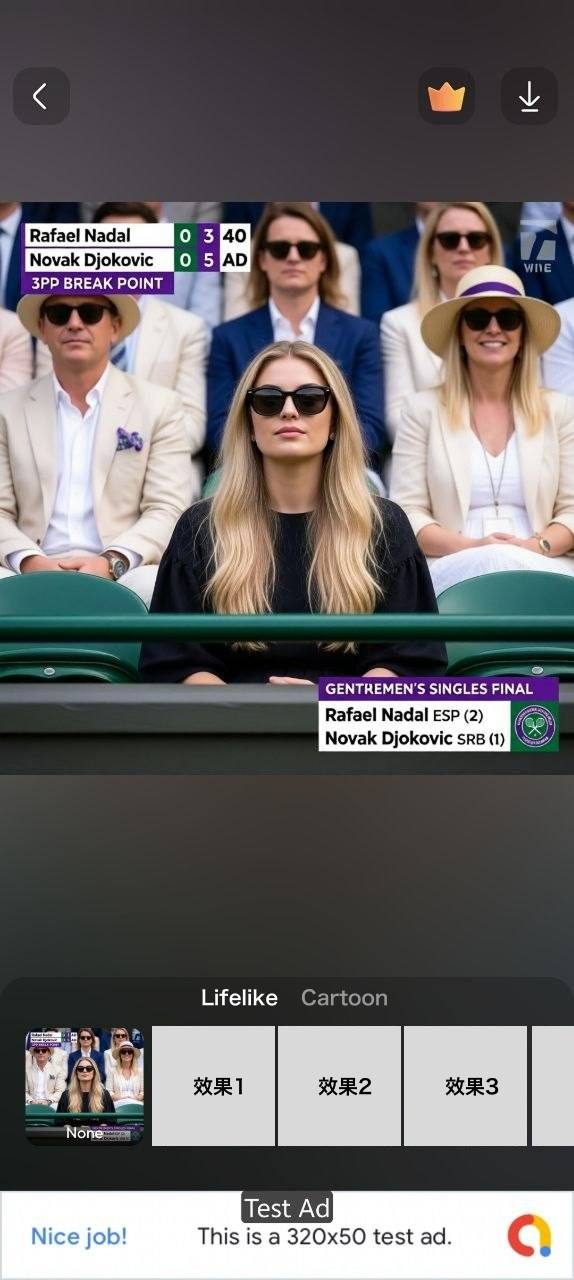
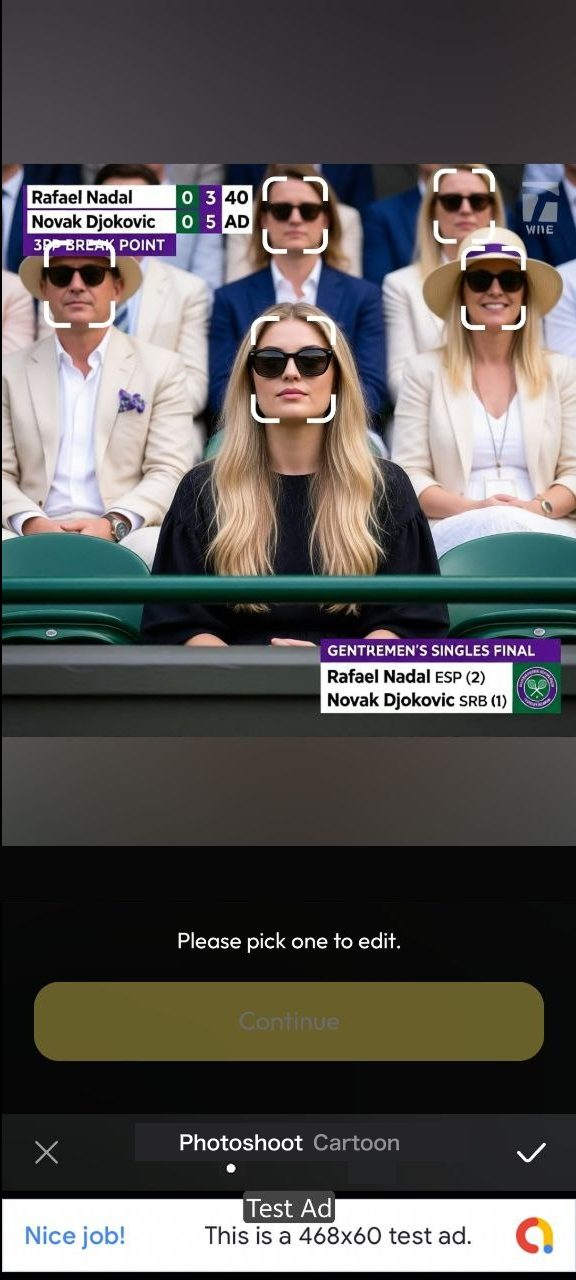
v1.330.0: 弹出条件改为开屏广告后；Lifelike→Photoshoot 全量替换；交互说明加 tab 定位+尾部衔接 Cartoon；埋点移到关注指标前；替换 §3.2 两张真人分类图

diff --git a/dofoto v1.330.0.html b/dofoto v1.330.0.html
@@ -359,7 +359,7 @@
       <span class="cover-meta-pill pill-status">撰写中</span>
     </div>
     <div class="cover-summary">
-      本版本包含 4 项更新：新增首页上新弹窗机制以推广新效果素材；AI Art 模块新增 Lifelike 分类并支持多人照片人脸选择；解决 Google Play 后台合规问题（Billing Library 升级至 8.0.0+ / target API 升级至 36）；修复选图页分类 tab 闪动问题。
+      本版本包含 4 项更新：新增首页上新弹窗机制以推广新效果素材；AI Art 模块新增 Photoshoot 分类并支持多人照片人脸选择；解决 Google Play 后台合规问题（Billing Library 升级至 8.0.0+ / target API 升级至 36）；修复选图页分类 tab 闪动问题。
     </div>
     <div class="change-log">
       <h3>变更记录</h3>
@@ -384,7 +384,7 @@
           <td>3 个效果主副标题</td>
         </tr>
         <tr>
-          <td class="name">AI 真人效果（Lifelike）</td>
+          <td class="name">AI 真人效果（Photoshoot）</td>
           <td>14 个缩略图和动画</td>
           <td>14 个效果名称多语言</td>
         </tr>
@@ -440,7 +440,7 @@
         <div class="card-body">
           <div class="card-text" style="font-size:32px;line-height:1.85;">
 <span style="font-weight:500;color:#0D47A1;">弹出条件</span>
-· 更新弹窗素材内容后，用户首次进入首页时弹出
+· 看完开屏广告后，用户首次进入首页时弹出
 · 新安装用户首次进入首页不弹出
 · 每日最多展示 1 次；同一天内未点击弹窗直接退出 App 后再进首页，仍展示弹窗（视为同一次）
 · 素材资源需全部下载完成后才展示：下载完成时若正在首页则直接弹出；若不在首页则下次启动进入首页时弹出
@@ -463,8 +463,8 @@
     </div>
 
     <!-- ===== 3.2 AI 真人效果 ===== -->
-    <div class="feature-title" style="margin-top:48px;">3.2 AI 真人效果（Lifelike）</div>
-    <div class="body-text" style="font-size:32px;line-height:1.85;color:#555;margin-top:8px;">从首页各模块点击数据来看，AI Art 模块排名第 6（41,276 次，占比 2.4%），仍有增长空间。当前 AI Art 仅有 Cartoon 风格，缺少真人风格效果品类，补充 Lifelike 分类以丰富效果类型、提升模块使用率。</div>
+    <div class="feature-title" style="margin-top:48px;">3.2 AI 真人效果（Photoshoot）</div>
+    <div class="body-text" style="font-size:32px;line-height:1.85;color:#555;margin-top:8px;">从首页各模块点击数据来看，AI Art 模块排名第 6（41,276 次，占比 2.4%），仍有增长空间。当前 AI Art 仅有 Cartoon 风格，缺少真人风格效果品类，补充 Photoshoot 分类以丰富效果类型、提升模块使用率。</div>
 
     <div style="display:flex;flex-direction:row;gap:28px;margin-top:16px;align-items:stretch;">
       <!-- 左：页面说明 -->
@@ -484,14 +484,15 @@
           </div>
           <!-- 右侧文字：只写效果编辑页 -->
           <div class="screen-text-block" style="flex:0 1 auto;">
-            <div style="font-size:34px;font-weight:500;color:#1565C0;margin-bottom:4px;">效果编辑页（Lifelike tab）</div>
+            <div style="font-size:34px;font-weight:500;color:#1565C0;margin-bottom:4px;">效果编辑页（Photoshoot tab）</div>
             <div><div class="screen-text-label">触发条件</div><div class="screen-text-body">单人照片直接进入；多人照片选中人脸后进入</div></div>
             <div><div class="screen-text-label">页面内容</div><div class="screen-text-body">· 效果预览图
 · 会员标识、下载按钮
-· Lifelike / Cartoon tab
+· Photoshoot / Cartoon tab
 · 效果缩略图列表（首位 None）</div></div>
             <div><div class="screen-text-label">交互说明</div><div class="screen-text-body">· 点击缩略图 → 预览效果
-· 切换 tab → 切换分类
+· 切换 tab → 切换分类，切换后默认定位到该分类的第一个效果
+· Photoshoot 滑动到最后 → 自动衔接展示 Cartoon 分类的第一个效果
 · 点击下载 → 保存结果</div></div>
             <div style="border-top:2px solid #E0E0E0;margin:12px 0;"></div>
             <div class="screen-text-body" style="color:#757575;">人脸选择页复用 Hair 模块现有人脸选择页</div>
@@ -505,8 +506,8 @@
         <div class="card-body">
           <div class="card-text" style="font-size:32px;line-height:1.85;">
 <span style="font-weight:500;color:#0D47A1;">新增分类</span>
-· 在现有 AI Art 模块下新增「Lifelike」分类 tab，与现有「Cartoon」分类并列
-· Lifelike 分类下展示真人风格 AI 效果列表
+· 在现有 AI Art 模块下新增「Photoshoot」分类 tab，与现有「Cartoon」分类并列
+· Photoshoot 分类下展示真人风格 AI 效果列表
 
 <span style="font-weight:500;color:#0D47A1;">多人照片人脸选择</span>
 · 当用户在选图页选中包含多个人脸的照片时，进入编辑页前先弹出人脸选择页（复用 Hair 模块）
@@ -556,6 +557,43 @@
     <div class="section-title">§4 关注指标及决策框架</div>
 
     <div>
+      <div style="font-size:40px;font-weight:500;color:#0D47A1;margin-bottom:16px;">埋点</div>
+      <table class="metric-table">
+        <thead>
+          <tr><th>一级事件</th><th>二级事件</th><th>备注说明</th></tr>
+        </thead>
+        <tbody>
+          <tr>
+            <td class="name" rowspan="2">UpdatePopup</td>
+            <td>Show_[素材名字]</td>
+            <td>上新弹窗曝光</td>
+          </tr>
+          <tr>
+            <td>Try_[素材名字]</td>
+            <td>上新弹窗中任意效果点击 Try 按钮</td>
+          </tr>
+          <tr>
+            <td class="name" rowspan="4">AICartoonFlow_ManyFace</td>
+            <td>SelectPage</td>
+            <td>选图页，一次编辑流程最多展示一次</td>
+          </tr>
+          <tr>
+            <td>FaceSelect</td>
+            <td>选人脸页，只对多人脸图展示</td>
+          </tr>
+          <tr>
+            <td>EditPage</td>
+            <td>编辑页，一次编辑流程最多展示一次</td>
+          </tr>
+          <tr>
+            <td>ResultPage</td>
+            <td>结果页，一次编辑流程最多展示一次</td>
+          </tr>
+        </tbody>
+      </table>
+    </div>
+
+    <div style="margin-top:48px;">
       <div style="font-size:40px;font-weight:500;color:#0D47A1;margin-bottom:16px;">关注指标</div>
       <table class="metric-table">
         <colgroup>
@@ -580,16 +618,16 @@
             <td>—</td>
           </tr>
           <tr>
-            <td class="name">Lifelike 效果使用量</td>
+            <td class="name">Photoshoot 效果使用量</td>
             <td>主指标：衡量新分类的用户接受度</td>
-            <td>使用 Lifelike 效果的次数</td>
+            <td>使用 Photoshoot 效果的次数</td>
             <td>—</td>
             <td>绝对值</td>
           </tr>
           <tr>
-            <td class="name">Lifelike 效果使用用户数</td>
+            <td class="name">Photoshoot 效果使用用户数</td>
             <td>次要：衡量新分类的用户覆盖面</td>
-            <td>使用过 Lifelike 效果的用户数</td>
+            <td>使用过 Photoshoot 效果的用户数</td>
             <td>进入 AI Art 模块的用户数</td>
             <td>—</td>
           </tr>
@@ -632,12 +670,12 @@
             <td>优化弹窗视觉 / 文案 / 素材质量；调整弹出频率或时机</td>
           </tr>
           <tr>
-            <td>Lifelike 效果使用量和用户数持续增长</td>
+            <td>Photoshoot 效果使用量和用户数持续增长</td>
             <td class="decision-text">✅ 新分类被接受</td>
-            <td>持续扩充 Lifelike 效果素材</td>
+            <td>持续扩充 Photoshoot 效果素材</td>
           </tr>
           <tr>
-            <td>Lifelike 效果使用量低迷</td>
+            <td>Photoshoot 效果使用量低迷</td>
             <td class="decision-text">⚠ 用户兴趣不足</td>
             <td>分析用户对效果质量的反馈，优化效果或调整推广策略</td>
           </tr>
@@ -645,43 +683,6 @@
             <td>人脸选择完成率偏低</td>
             <td class="decision-text">⚠ 选择流程存在体验障碍</td>
             <td>简化流程或优化人脸检测准确度</td>
-          </tr>
-        </tbody>
-      </table>
-    </div>
-
-    <div style="margin-top:48px;">
-      <div style="font-size:40px;font-weight:500;color:#0D47A1;margin-bottom:16px;">埋点</div>
-      <table class="metric-table">
-        <thead>
-          <tr><th>一级事件</th><th>二级事件</th><th>备注说明</th></tr>
-        </thead>
-        <tbody>
-          <tr>
-            <td class="name" rowspan="2">UpdatePopup</td>
-            <td>Show_[素材名字]</td>
-            <td>上新弹窗曝光</td>
-          </tr>
-          <tr>
-            <td>Try_[素材名字]</td>
-            <td>上新弹窗中任意效果点击 Try 按钮</td>
-          </tr>
-          <tr>
-            <td class="name" rowspan="4">AICartoonFlow_ManyFace</td>
-            <td>SelectPage</td>
-            <td>选图页，一次编辑流程最多展示一次</td>
-          </tr>
-          <tr>
-            <td>FaceSelect</td>
-            <td>选人脸页，只对多人脸图展示</td>
-          </tr>
-          <tr>
-            <td>EditPage</td>
-            <td>编辑页，一次编辑流程最多展示一次</td>
-          </tr>
-          <tr>
-            <td>ResultPage</td>
-            <td>结果页，一次编辑流程最多展示一次</td>
           </tr>
         </tbody>
       </table>
